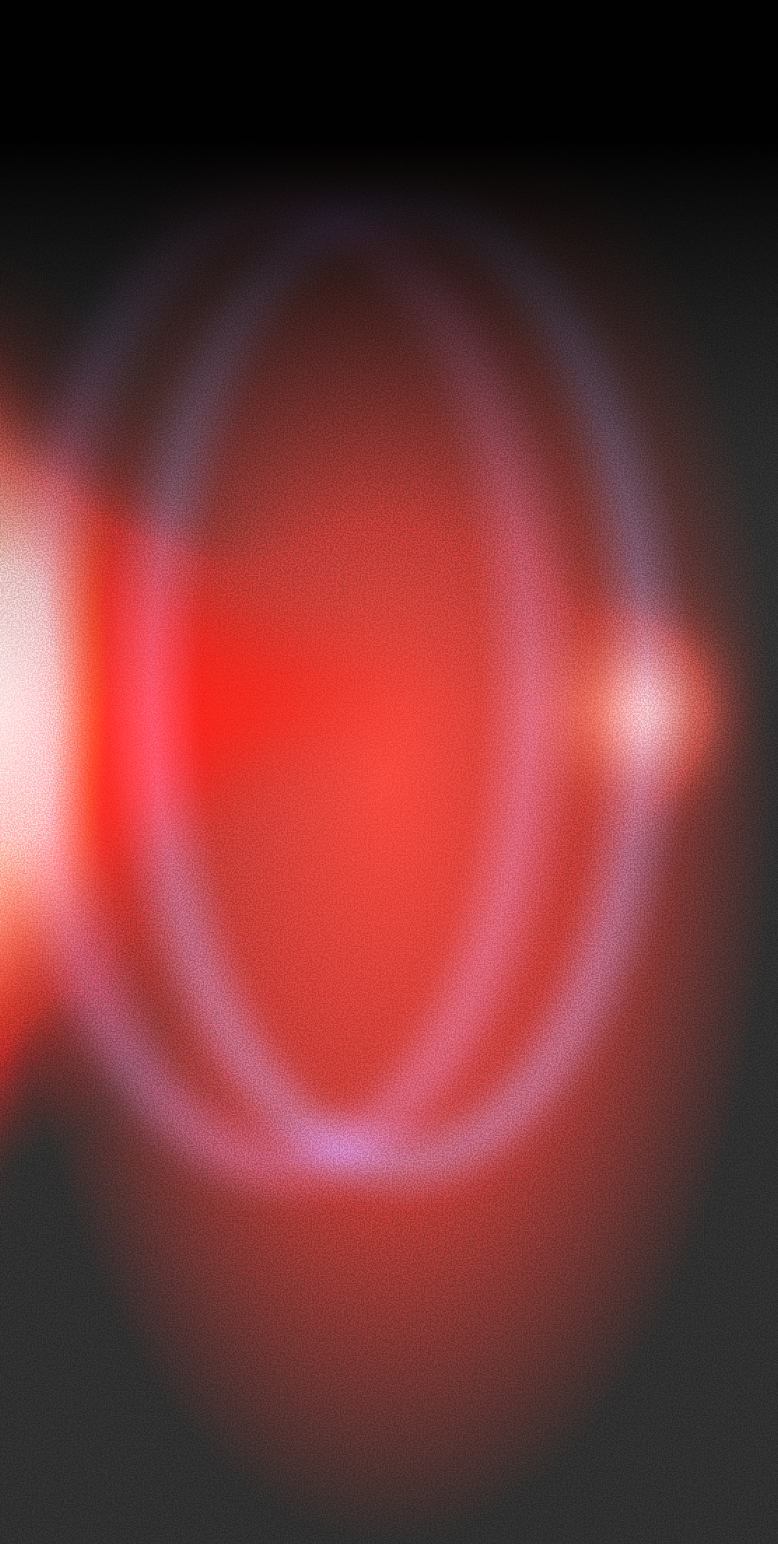
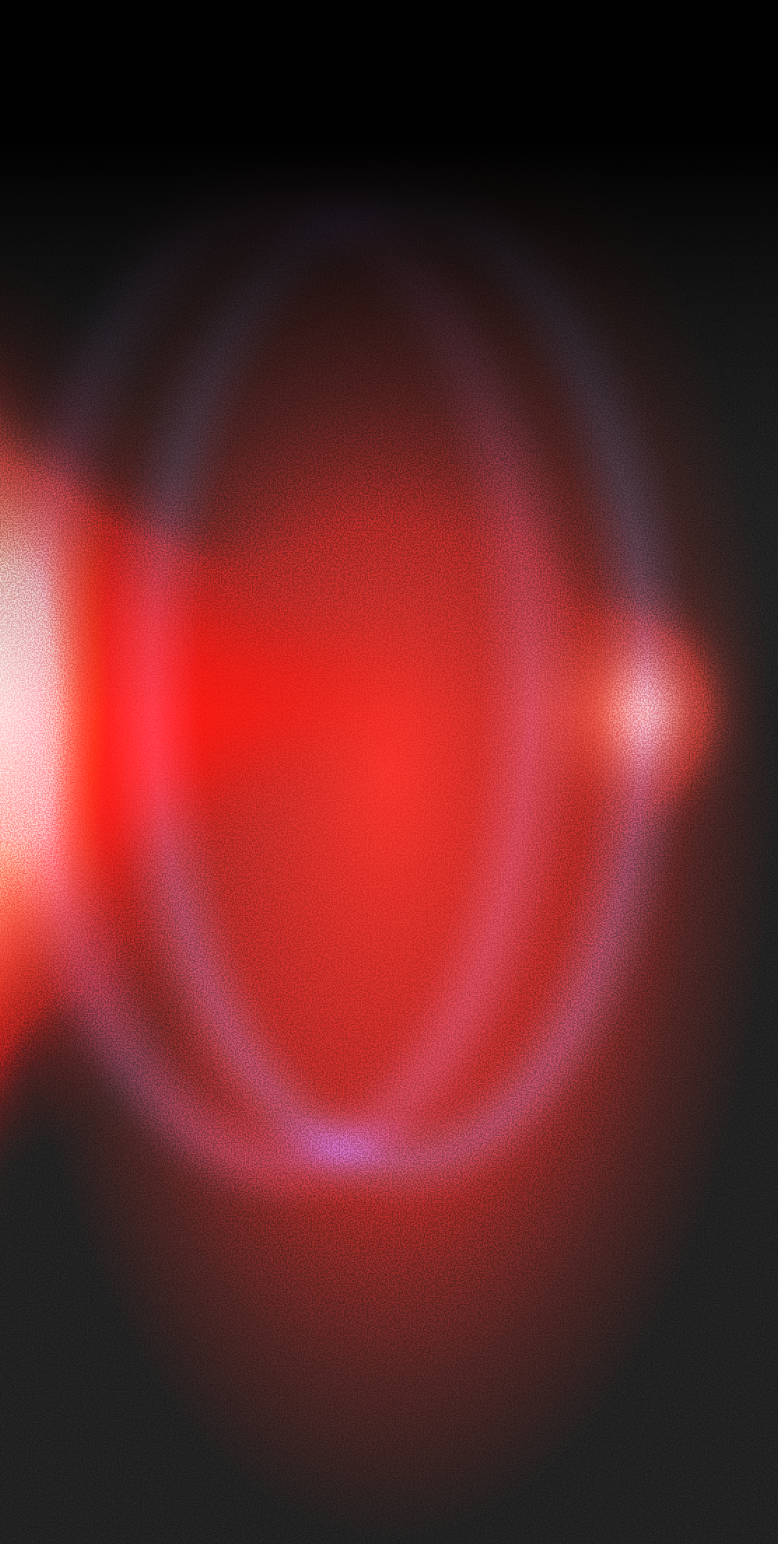
Redesign onboarding welcome: glass button at bottom, updated bg
Move Empezar ya to bottom as large glass button, remove skip from
top nav, update background image.

diff --git a/src/Onboarding.tsx b/src/Onboarding.tsx
@@ -67,15 +67,8 @@ export default function Onboarding({ onComplete }: OnboardingProps) {
         />
       )}
 
-      {/* Skip button */}
-      <div className="relative z-10 flex justify-end px-6 pt-14 pb-2">
-        <button
-          onClick={onComplete}
-          className="text-sm text-white/30 transition-colors hover:text-white/60"
-        >
-          Empezar ya
-        </button>
-      </div>
+      {/* Top spacer */}
+      <div className="relative z-10 px-6 pt-14 pb-2" />
 
       {/* Progress dots */}
       <div className="flex justify-center gap-2 py-4">
@@ -324,7 +317,7 @@ export default function Onboarding({ onComplete }: OnboardingProps) {
         )}
 
         {/* Bottom navigation */}
-        <div className="flex items-center gap-3 mt-8">
+        <div className="flex items-center gap-3 mt-8 relative z-10">
           {step > 0 && (
             <button
               onClick={back}
@@ -335,16 +328,25 @@ export default function Onboarding({ onComplete }: OnboardingProps) {
               </svg>
             </button>
           )}
-          <button
-            onClick={next}
-            className="flex-1 rounded-full py-4 text-[0.95rem] text-black font-medium transition-all duration-200 hover:scale-[1.02] active:scale-[0.98] cursor-pointer"
-            style={{
-              background: 'rgba(255,255,255,0.92)',
-              boxShadow: '0 4px 20px rgba(255,255,255,0.08), 0 0 40px rgba(212,80,122,0.08)',
-            }}
-          >
-            {step === totalSteps - 1 ? 'Escribir mi primera entrada' : 'Continuar'}
-          </button>
+          {step === 0 ? (
+            <button
+              onClick={onComplete}
+              className="flex-1 liquid-glass rounded-full py-4 text-[0.95rem] text-white/90 font-medium transition-all duration-200 active:scale-[0.98] cursor-pointer"
+            >
+              Empezar ya
+            </button>
+          ) : (
+            <button
+              onClick={next}
+              className="flex-1 rounded-full py-4 text-[0.95rem] text-black font-medium transition-all duration-200 hover:scale-[1.02] active:scale-[0.98] cursor-pointer"
+              style={{
+                background: 'rgba(255,255,255,0.92)',
+                boxShadow: '0 4px 20px rgba(255,255,255,0.08), 0 0 40px rgba(212,80,122,0.08)',
+              }}
+            >
+              {step === totalSteps - 1 ? 'Escribir mi primera entrada' : 'Continuar'}
+            </button>
+          )}
         </div>
       </div>
     </div>